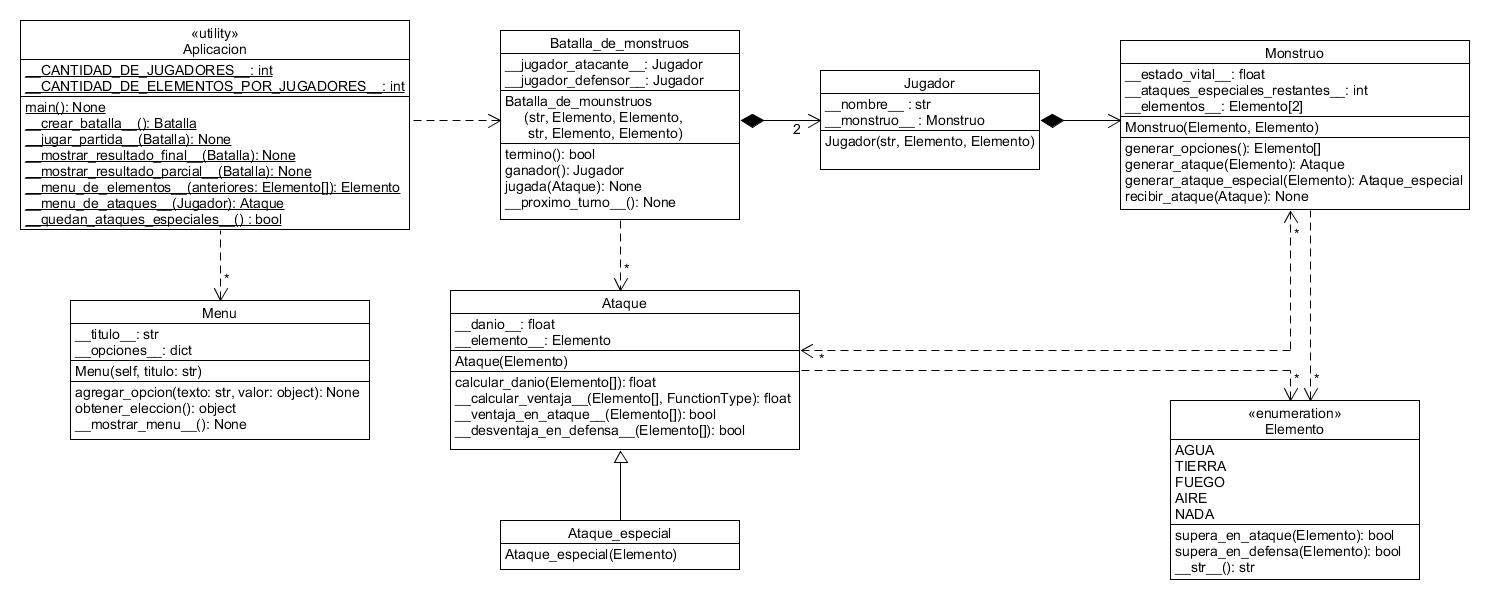
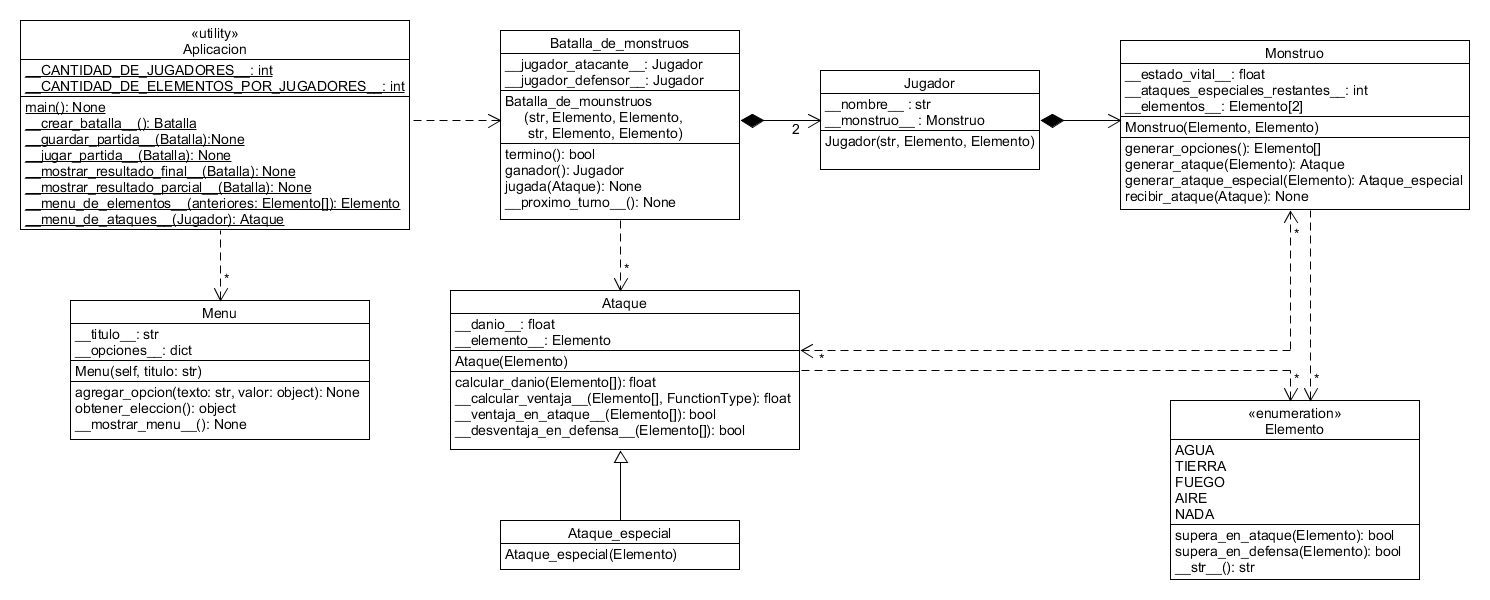
Modificacion del UML

Changed region(s): [[0.0309, 0.21, 0.2779, 0.39]]

diff --git a/aplicacion.py b/aplicacion.py
@@ -4,15 +4,20 @@ CANTIDAD_DE_JUGADORES = 2
 CANTIDAD_DE_ELEMENTOS_POR_JUGADORES = 2
 
 def main():
+	m_inicial = Menu(titulo, opciones)
+	m_turno = Menu(titulo, opciones)
     pass
 
 def __crear_batalla__():
     pass
 
+def __guardar_partida__(batalla):
+	pass
+
 def __jugar_partida__(batalla):
     pass
 
-def __mostrar_resultado_final(batalla):
+def __mostrar_resultado_final__(batalla):
     pass
 
 def __mostrar_resultado_parcial__(batalla):
